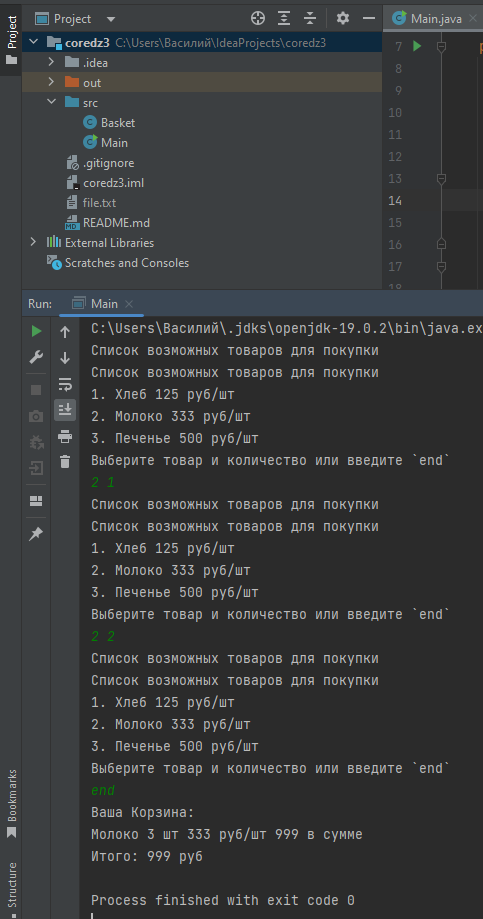
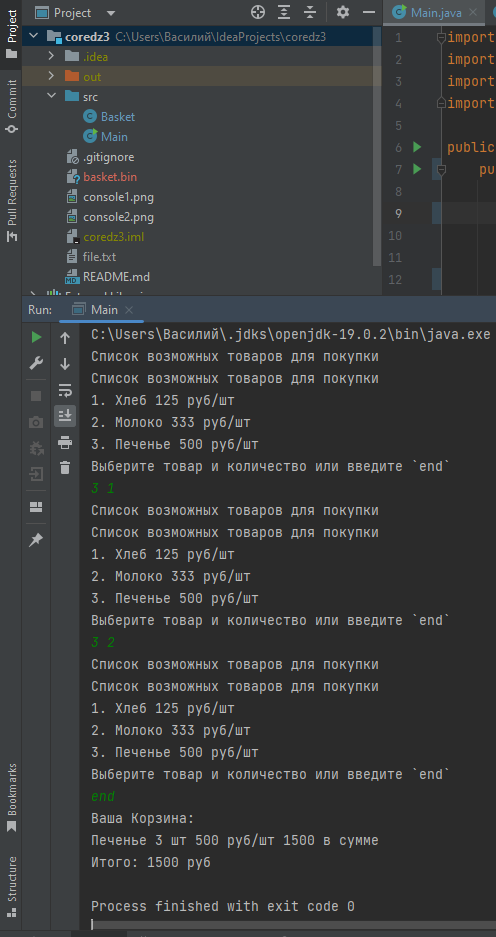
Task 2 completed, README and images changed

diff --git a/src/Basket.java b/src/Basket.java
@@ -1,7 +1,7 @@
 import java.io.*;
 import java.util.Arrays;
 
-public class Basket {
+public class Basket implements Serializable{
     private int[] basket, prices;
     private String[] goods;
 
@@ -40,31 +40,17 @@ public class Basket {
         }
     }
 
-    public void saveTxt(File textFile) throws IOException {
-        try (PrintWriter out = new PrintWriter(textFile);) {
-            for (int element : basket) out.print(element + " ");
-            out.print("\n");
-            for (int element : prices) out.print(element + " ");
-            out.print("\n");
-            for (String element : goods) out.print(element + " ");
-            out.print("\n");
+    public void saveBin(File file) throws IOException {
+        try (FileOutputStream fos = new FileOutputStream(file);
+        ObjectOutputStream oos = new ObjectOutputStream(fos)) {
+            oos.writeObject(this);
         }
     }
 
-    public static Basket loadFromTxtFile(File textFile) throws IOException{
-        try (FileReader input = new FileReader(textFile)) {
-            StringBuilder result = new StringBuilder();
-            Character c;
-            while ((c = (char)input.read()) != '\n') result.append(c);
-            int[] basketLoad = Arrays.stream(result.toString().split(" ")).mapToInt(Integer::parseInt).toArray();
-            result.setLength(0);
-            while ((c = (char)input.read()) != '\n') result.append(c);
-            int[] pricesLoad = Arrays.stream(result.toString().split(" ")).mapToInt(Integer::parseInt).toArray();
-            result.setLength(0);
-            while ((c = (char)input.read()) != '\n') result.append(c);
-            String[] goodsLoad = result.toString().split(" ");
-            result.setLength(0);
-            return new Basket(basketLoad,pricesLoad,goodsLoad);
+    public static Basket loadFromBinFile(File file) throws IOException,ClassNotFoundException{
+        try (FileInputStream fos = new FileInputStream(file);
+             ObjectInputStream ois = new ObjectInputStream(fos)) {
+            return (Basket)ois.readObject();
         }
     }
 }

diff --git a/src/Main.java b/src/Main.java
@@ -4,12 +4,12 @@ import java.util.Arrays;
 import java.util.Scanner;
 
 public class Main {
-    public static void main(String[] args) throws IOException {
+    public static void main(String[] args) throws IOException,ClassNotFoundException {
         Scanner scanner = new Scanner(System.in);
-        File textBasket = new File("./file.txt");
+        File textBasket = new File("./basket.bin");
         Basket basket;
 
-        if (textBasket.exists()) basket = Basket.loadFromTxtFile(textBasket);
+        if (textBasket.exists()) basket = Basket.loadFromBinFile(textBasket);
         else {
             basket = new Basket(new int[]{125, 333, 500}, new String[]{"Хлеб", "Молоко", "Печенье"});
             textBasket.createNewFile();
@@ -24,7 +24,7 @@ public class Main {
                 break;
             }
             basket.addToCart(Arrays.stream(input.split(" ")).mapToInt(Integer::parseInt).toArray()[0], Arrays.stream(input.split(" ")).mapToInt(Integer::parseInt).toArray()[1]);
-            basket.saveTxt(textBasket);
+            basket.saveBin(textBasket);
         }
     }
 }

diff --git a/README.md b/README.md
@@ -1,9 +1,9 @@
 ## Результат вывода программы в консоль
 
-При первом запуске был создан новый файл, хранящий содержимое полей класса Basket
+При первом запуске был создан новый бинарный файл, хранящий содержимое полей класса Basket
 
 ![Alt-текст](/console1.png "скрин консоли")
 
-При втором запуске программа определила файл, и вызвала метод loadFromTxtFile, передавший информацию из файла в конструктор программно
+При втором запуске программа определила файл, и вызвала метод loadFromBinFile, вернувший прочитанный объект из бинарного файла
 
 ![Alt-текст](/console2.png "скрин консоли")
